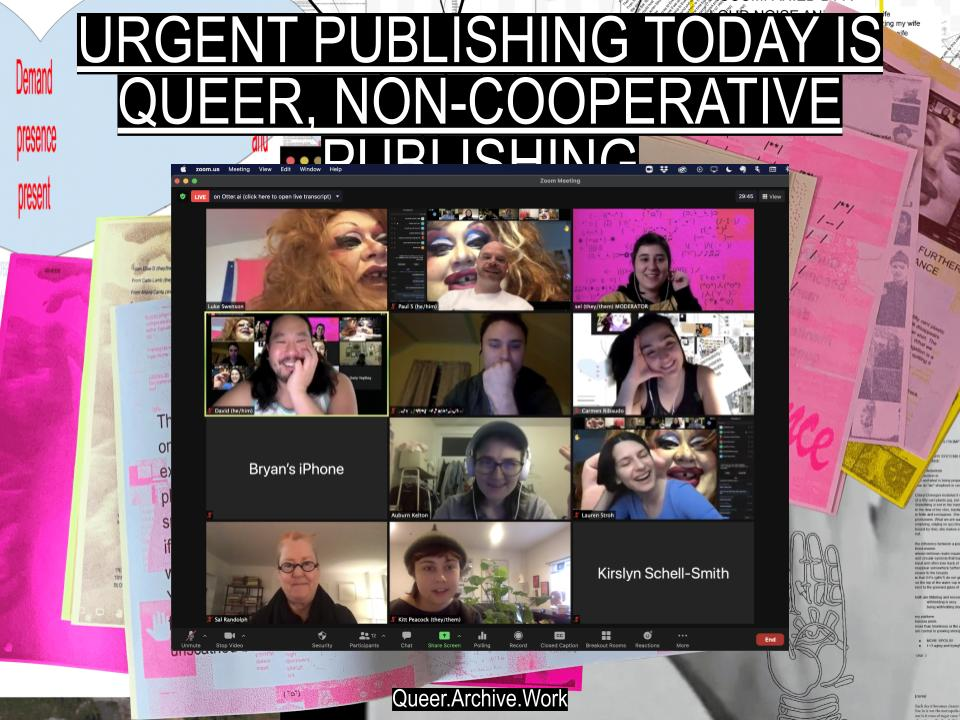
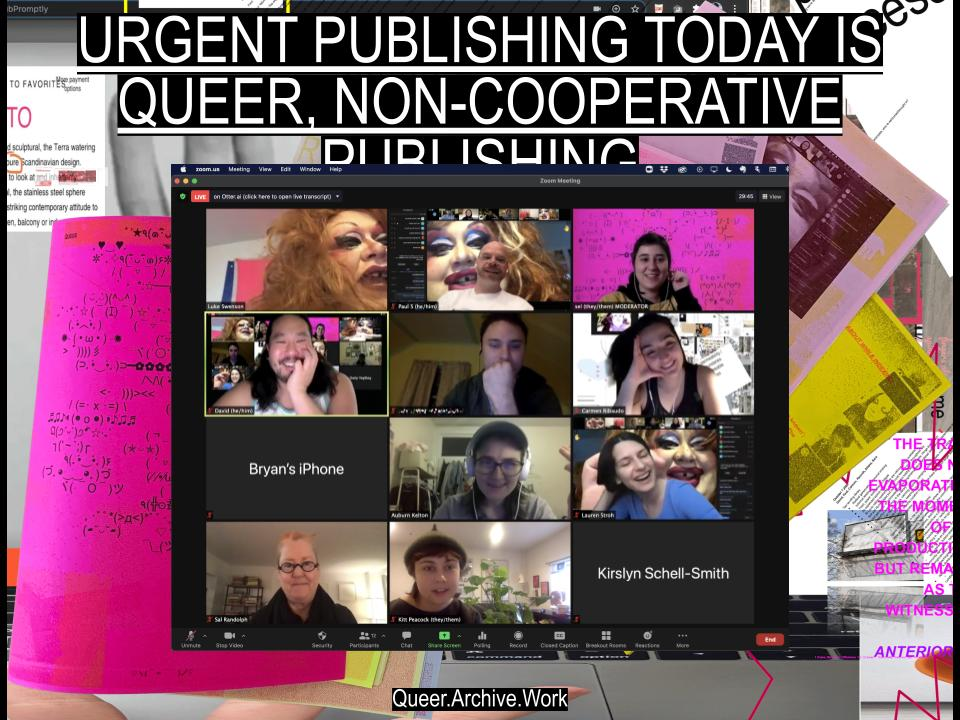
Add files via upload

diff --git a/writing/feb2021/index.html b/writing/feb2021/index.html
@@ -1028,7 +1028,19 @@ All of the good energy and support generated by and for the independent publishi
 <br>
 
 <h3><p>
-		I&rsquo;m here with this loose, beautiful, expanding community of queer makers that gathers around the non-profit publishing space that I direct here in Providence, and online, Queer.Archive.Work.
+		I&rsquo;m here with this new, informal, but very intentional community of queer makers that gathers around the non-profit publishing space that I direct, Queer.Archive.Work, here in Providence, and online.
+
+
+		</p>
+
+<br>
+
+			<img src="89b.jpg">
+<br>
+
+<h3><p>
+		and we&rsquo;ve put some of what I&rsquo;m discussing today into practice with a new publication that we’re releasing right now at the fair. half of the edition is being distributed by the contributors themselves, the other half distributed for free or trade to Queer, Trans, and BIPoC folks. Institutions, however, pay.
+
 
 		</p>
 
